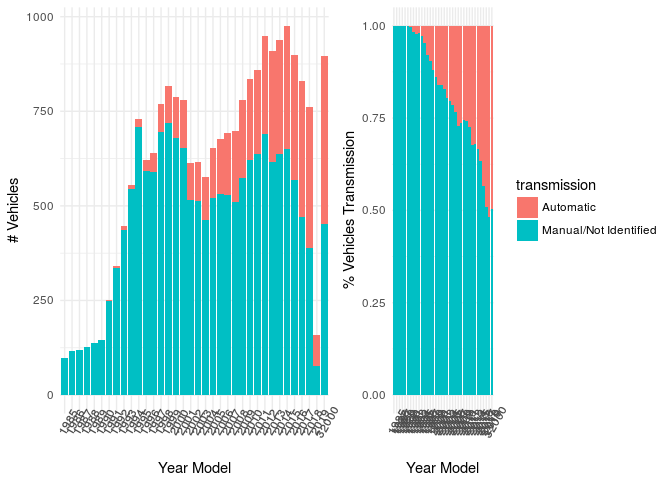
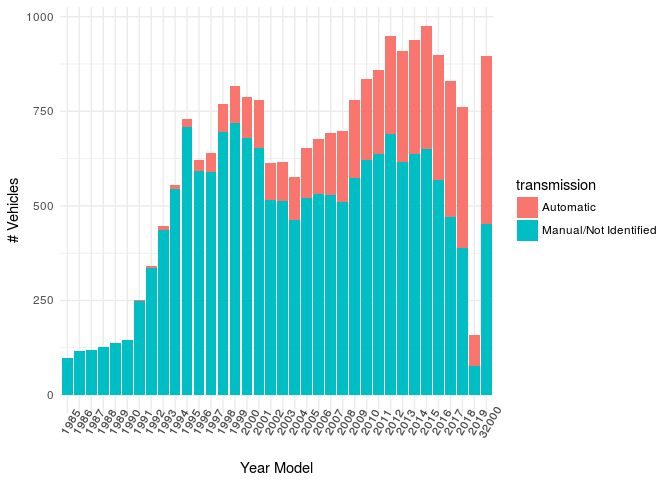
modify fipe

Changed region(s): [[0.0938, 0.0312, 0.75, 0.9062], [0.25, 0.9688, 0.4688, 1.0], [0.5938, 0.9688, 0.7188, 1.0]]

diff --git a/_pages/fipe.md b/_pages/fipe.md
@@ -1,4 +1,5 @@
 ---
+title: "EDA: Brazilian Car Prices"
 permalink: /fipe/
 header:
   image: "/images/IMG_2046_1.JPG"
@@ -102,8 +103,6 @@ theme_minimal()+xlab("log Price")+ylab("Year Model")+
 scale_fill_viridis(name = "Price", option = "C")
 ```
 
-    ## Picking joint bandwidth of 0.183
-
 ![](/_pages/fipe_files/figure-markdown_github/unnamed-chunk-7-1.png)
 
 ### Create Transmission information
@@ -122,16 +121,19 @@ mutate(transmission=ifelse((grepl("Aut",vehicle) | grepl("Tipt",vehicle)),"Autom
 
 ``` r
 options(repr.plot.width=10, repr.plot.height=4)
-p1<-fipe%>%
+fipe%>%
 group_by(year_model,transmission)%>%
 summarise(total=n())%>%
 ggplot(aes(x = as.factor(year_model), y = total, fill = transmission))+
 geom_bar(stat = "identity")+
 theme_minimal()+xlab("Year Model")+ylab("# Vehicles")+
-theme(axis.text.x = element_text(angle=60))+
-guides(fill=FALSE)
+theme(axis.text.x = element_text(angle=60))
+```
 
-p2<-fipe%>%
+![](/_pages/fipe_files/figure-markdown_github/unnamed-chunk-9-1.png)
+
+``` r
+fipe%>%
 group_by(year_model,transmission)%>%
 summarise(count=n())%>%
 group_by(year_model)%>%
@@ -140,11 +142,9 @@ ggplot(aes(x = as.factor(year_model), y = perc, fill = transmission))+
 geom_bar(stat = "identity")+
 theme_minimal()+xlab("Year Model")+ylab("% Vehicles Transmission")+
 theme(axis.text.x = element_text(angle=60))
-
-grid.arrange(p1,p2,ncol=2)
 ```
 
-![](/_pages/fipe_files/figure-markdown_github/unnamed-chunk-9-1.png)
+![](/_pages/fipe_files/figure-markdown_github/unnamed-chunk-9-2.png)
 
 Opposite to the US market the majority of cars in Brazil are manual. However, the automatic car is becoming more popular and increasing its share by year model.
 
@@ -169,10 +169,6 @@ geom_vline(xintercept = c(10,12,14),lty=2,colour="navy")+
 theme_minimal()+xlab("log Price")+ylab("Year Model")+
 facet_wrap(~transmission)
 ```
-
-    ## Picking joint bandwidth of 0.179
-
-    ## Picking joint bandwidth of 0.188
 
 ![](/_pages/fipe_files/figure-markdown_github/unnamed-chunk-11-1.png)
 
@@ -243,8 +239,6 @@ geom_density_ridges_gradient(scale=2,rel_min_height = 0.01, alpha=0.6)+
 theme_minimal()+xlab("log Price")+ylab("Year Model")
 ```
 
-    ## Picking joint bandwidth of 0.145
-
 ![](/_pages/fipe_files/figure-markdown_github/unnamed-chunk-15-1.png)
 
 ### Model
@@ -268,8 +262,8 @@ mutate(est_price=predict(model,.))%>%
 group_by(year_model2)%>%
 summarise(price=mean(price2),est_price=mean(exp(est_price)))%>%
 ggplot()+
-geom_line(aes(x=year_model2,y=price),colour="navy")+
-geom_line(aes(x=year_model2,y=est_price),colour="orange")+
+geom_line(aes(x=as.numeric(year_model2),y=price),colour="navy")+
+geom_line(aes(x=as.numeric(year_model2),y=est_price),colour="orange")+
 theme_minimal()+xlab("Year Model")+ylab("Price")
 
 p2<-fipe%>%
@@ -292,11 +286,6 @@ theme_minimal()+xlab("Fuel")+ylab("Price")
 
 grid.arrange(p1,p2,p3,ncol=2)
 ```
-
-    ## geom_path: Each group consists of only one observation. Do you need to
-    ## adjust the group aesthetic?
-    ## geom_path: Each group consists of only one observation. Do you need to
-    ## adjust the group aesthetic?
 
 ![](/_pages/fipe_files/figure-markdown_github/unnamed-chunk-17-1.png)
 
